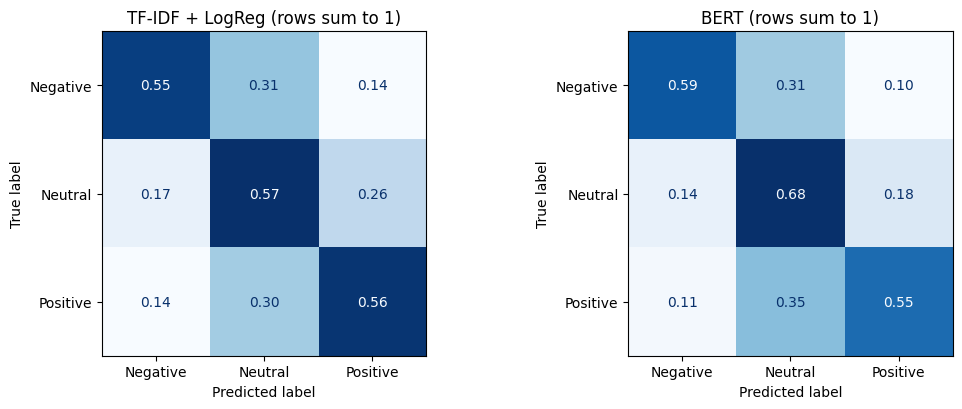
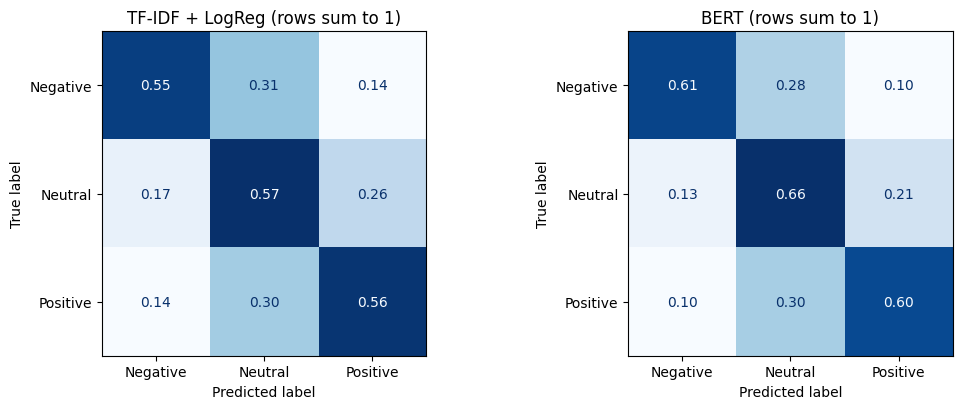
Update results with tuned model and hyperparameter search
Search picked lr 2e-5 / batch 16 / 4 epochs (val macro-F1 0.645); final test
results 63.2% accuracy / 0.624 macro-F1. Adds the search plot and refreshed
confusion matrix from the Colab run.

Claude-Session: https://claude.ai/code/session_01G9CBcDRhHqrAebQhefbNXN

diff --git a/README.md b/README.md
@@ -16,32 +16,47 @@ the data, seed 42), with two baselines for comparison:
 |---|---:|---:|---:|---:|---:|
 | Majority class (always "neutral") | 47.2% | 0.214 | 0.000 | 0.641 | 0.000 |
 | TF-IDF + logistic regression | 56.4% | 0.555 | 0.525 | 0.599 | 0.542 |
-| **Fine-tuned BERT** | **62.0%** | **0.607** | **0.586** | **0.663** | **0.573** |
+| **Fine-tuned BERT (tuned)** | **63.2%** | **0.624** | **0.608** | **0.664** | **0.599** |
 
 ![Confusion matrices for TF-IDF + logistic regression and BERT](deployment/docs/images/confusion_matrix.png)
 
-- **BERT beats both baselines on every class**, but the margin over TF-IDF
-  is modest (+5.6 points of accuracy). With 589 test rows, a single run's
-  accuracy has an uncertainty of roughly ±4 points, so the gap is
-  suggestive rather than conclusive.
-- **Most errors involve the neutral class.** About a third of truly
-  negative and truly positive comments were predicted as neutral; BERT
-  rarely confuses positive with negative outright.
+- **BERT beats both baselines on every class**: +6.8 points of accuracy and
+  +0.07 macro-F1 over TF-IDF. With 589 test rows, one run's accuracy is
+  uncertain by roughly ±4 points, so treat the exact margin as approximate.
+- **Most errors involve the neutral class.** 28% of truly negative and 30%
+  of truly positive comments were predicted neutral, while only about 10%
+  were flipped to the opposite sentiment.
 - **Accuracy depends heavily on the data source:**
 
   | Source | Test rows | BERT accuracy |
   |---|---:|---:|
-  | `sentiment.csv` (positive/negative only) | 121 | 78.5% |
-  | `sentiment_labels.csv` | 195 | 62.6% |
-  | `ETH_comments.csv` | 105 | 61.9% |
-  | `BTC_comments.csv` | 168 | 49.4% |
+  | `sentiment.csv` (positive/negative only) | 121 | 81.0% |
+  | `sentiment_labels.csv` | 195 | 63.1% |
+  | `ETH_comments.csv` | 105 | 59.0% |
+  | `BTC_comments.csv` | 168 | 53.0% |
 
   The two-class source is easiest because it has no neutral examples to
   confuse; the scraped BTC comments are hardest.
 
-Training: 2 epochs, batch size 16, AdamW (lr 2e-5, linear warmup/decay), max
-256 tokens, on a Colab T4 GPU in a few minutes. Full code, plots and error
-analysis are in [`notebooks/02_train_evaluate.ipynb`](notebooks/02_train_evaluate.ipynb).
+### Hyperparameter search
+
+Learning rate and batch size were tuned on a validation split carved out of
+the training data (15%, never the test set), training each combination for
+up to 4 epochs and scoring macro-F1 after every epoch:
+
+![Validation macro-F1 by epoch for each learning rate and batch size](deployment/docs/images/hyperparameter_search.png)
+
+The best config was **lr 2e-5, batch size 16, 4 epochs** (validation
+macro-F1 0.645). Most settings level off around 0.60–0.63 by epoch 3; the
+clear outlier is lr 1e-5 with batch size 32, which learns too slowly to
+converge in 4 epochs. Tuning improved the test score over the untuned
+2-epoch run (62.0% / 0.607) by about one point, which is within run-to-run
+noise: the main gain came from training longer.
+
+Final training: 4 epochs, batch size 16, AdamW (lr 2e-5, weight decay 0.01,
+linear warmup/decay), max 256 tokens, on a Colab T4 GPU. Full code, plots
+and error analysis are in
+[`notebooks/02_train_evaluate.ipynb`](notebooks/02_train_evaluate.ipynb).
 
 ## Run it on Google Colab
 
@@ -181,11 +196,11 @@ run in seconds without downloading any weights.
 - **Frozen 2022 snapshot.** The comments come from mid-2022 and Pushshift
   no longer serves Reddit data, so the model hasn't seen newer slang or
   market conditions.
-- **Single run.** Results are from one seed; averaging several seeds (or
+- **Single run.** Results are from one seed (and the best search config
+  sat at the 4-epoch limit, so 5–6 epochs may help slightly); averaging several seeds (or
   cross-validation) would give tighter numbers.
 
-**Next steps:** relabel a sample for consistent neutral guidelines; try 3–4
-epochs (validation scores were still rising after epoch 2) or a
+**Next steps:** relabel a sample for consistent neutral guidelines; try a
 domain-specific model such as a Twitter/finance-pretrained RoBERTa; add a
 sarcasm-heavy evaluation set.
 

diff --git a/deployment/bert_training/WRITEUP.md b/deployment/bert_training/WRITEUP.md
@@ -179,6 +179,25 @@ section 4) returns the best config:
 - Caveat: the LR schedule decays over `max_epochs`, so "epoch 2 of a
   4-epoch trial" approximates rather than exactly matches a 2-epoch run.
 
+### Search results (Colab T4, torch 2.14 / transformers 4.57)
+
+| lr | batch | best epoch | val macro-F1 |
+|---|---:|---:|---:|
+| 2e-5 | 16 | 4 | **0.645** |
+| 5e-5 | 16 | 4 | 0.632 |
+| 3e-5 | 16 | 3 | 0.631 |
+| 3e-5 | 32 | 3 | 0.629 |
+| 5e-5 | 32 | 4 | 0.620 |
+| 2e-5 | 32 | 3 | 0.593 |
+| 1e-5 | 16 | 3 | 0.590 |
+| 1e-5 | 32 | 4 | 0.410 |
+
+Retraining on the full training set with lr 2e-5 / batch 16 / 4 epochs gave
+**63.2% accuracy / 0.624 macro-F1** on the test set (train loss 1.02 →
+0.39), up from 62.0% / 0.607 for the untuned 2-epoch run. Validation (0.645)
+came out a little above test (0.624), as expected after picking the best of
+8 configs on that validation set.
+
 ## Known follow-ups
 
 - Metrics are from a single seed; averaging several runs would tighten them.
